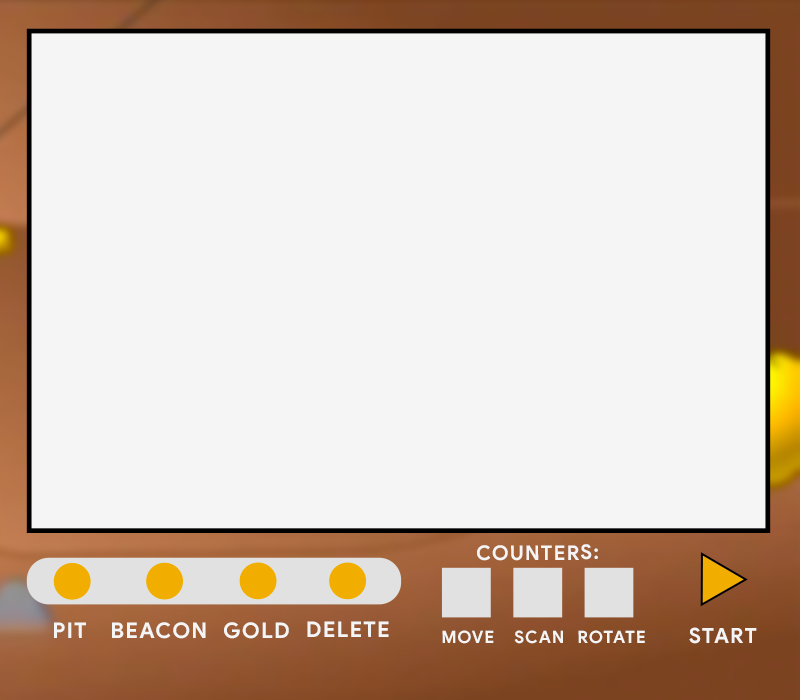
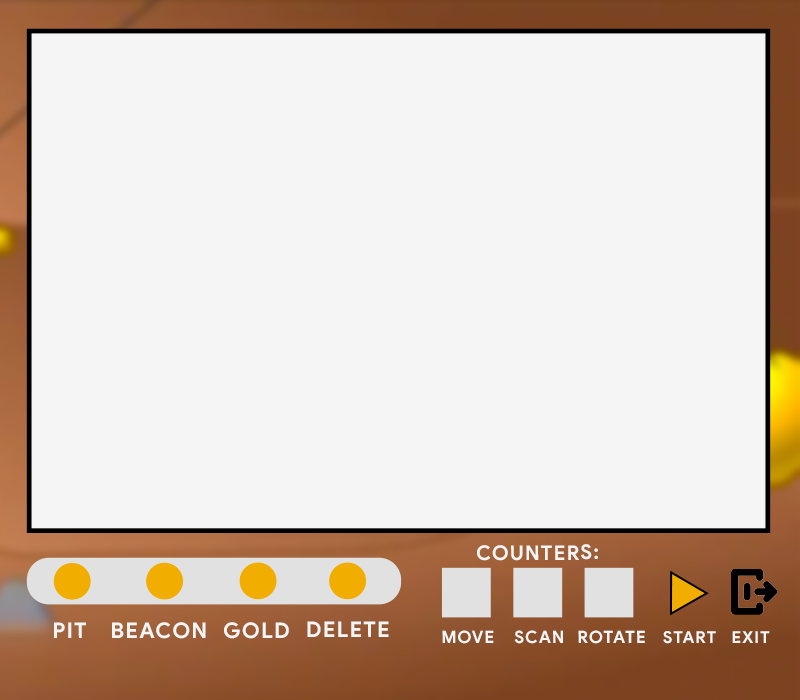
guiguigui

Changed region(s): [[0.8125, 0.78, 0.9688, 0.93]]

diff --git a/src/Controller/GridController.java b/src/Controller/GridController.java
@@ -329,6 +329,9 @@ public class GridController{
         return temp;
     }
 
+    public void ExitGame() {
+    }
+
     public void close(ActionEvent event) {
         ((Node) (event.getSource())).getScene().getWindow().hide();
     }
